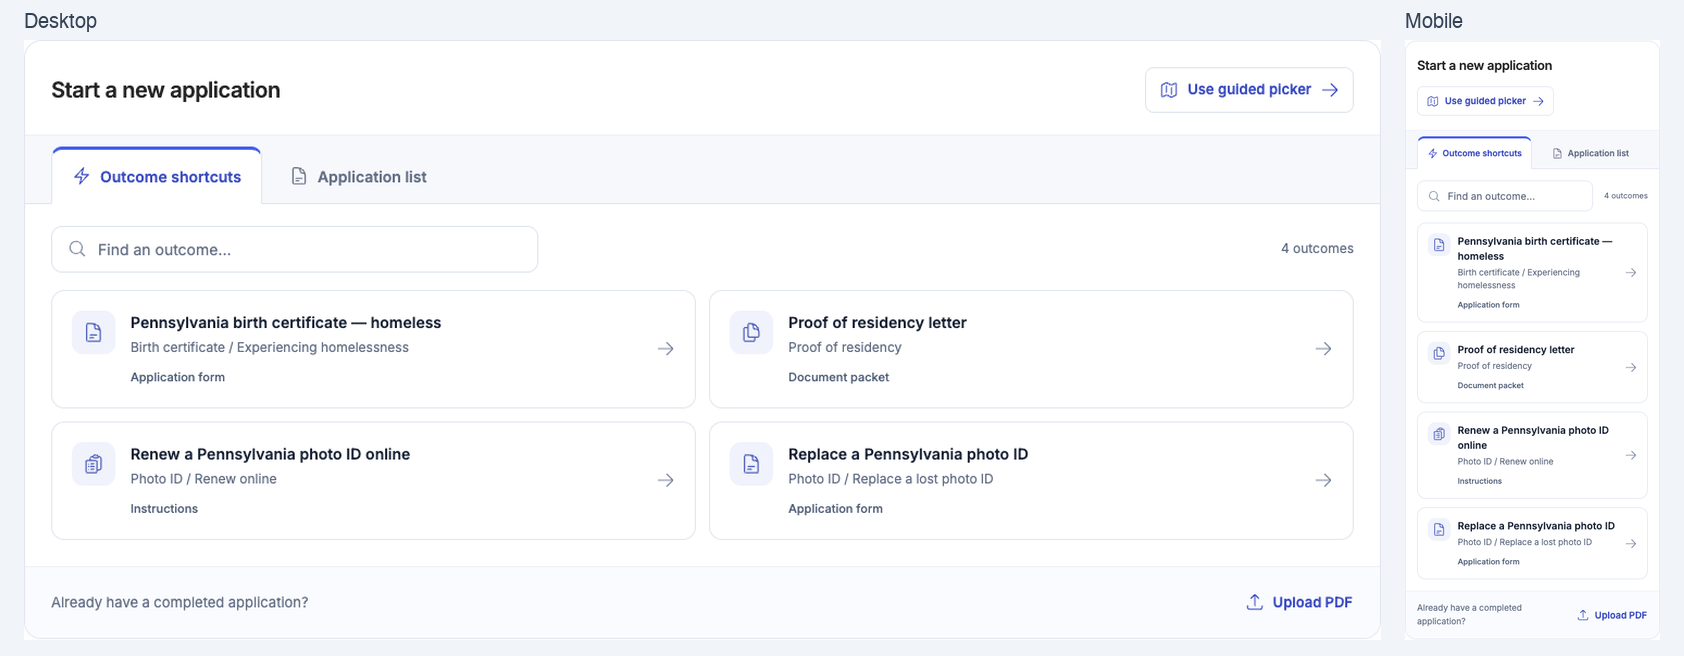
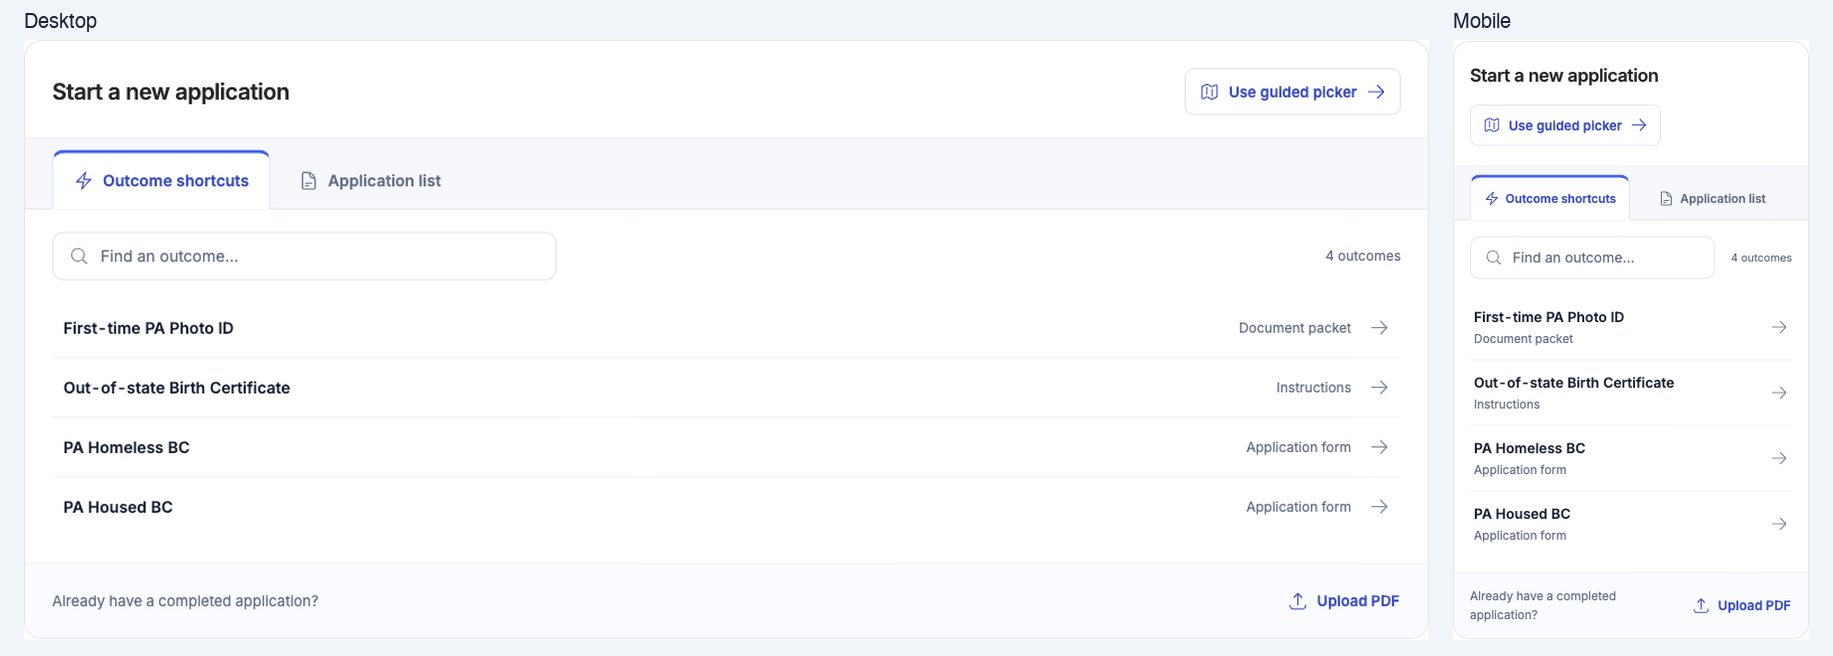
Show outcome service labels in a compact shortcut list

diff --git a/src/components/Applications/ApplicationStartTabs.tsx b/src/components/Applications/ApplicationStartTabs.tsx
@@ -5,8 +5,6 @@ import {
   ArrowRightIcon,
   ArrowUpTrayIcon,
   BoltIcon,
-  ClipboardDocumentListIcon,
-  DocumentDuplicateIcon,
   DocumentTextIcon,
   MagnifyingGlassIcon,
   MapIcon,
@@ -15,7 +13,7 @@ import React, { useEffect, useState } from 'react';
 import { Link } from 'react-router-dom';
 
 import { loadCaseSelector } from './applicationSelector/flowApi';
-import { getOutcomeShortcuts } from './applicationSelector/outcomeShortcuts';
+import { getOutcomeShortcutLabel, getOutcomeShortcuts } from './applicationSelector/outcomeShortcuts';
 import type { SelectorFlow } from './applicationSelector/types';
 
 interface Props {
@@ -27,10 +25,10 @@ interface Props {
 }
 
 const outcomePresentation = {
-  WEB_FORM: { label: 'Application form', Icon: DocumentTextIcon },
-  PDF_UPLOAD: { label: 'PDF application', Icon: ArrowUpTrayIcon },
-  INSTRUCTIONS_ONLY: { label: 'Instructions', Icon: ClipboardDocumentListIcon },
-  ATTACHMENTS_ONLY: { label: 'Document packet', Icon: DocumentDuplicateIcon },
+  WEB_FORM: 'Application form',
+  PDF_UPLOAD: 'PDF application',
+  INSTRUCTIONS_ONLY: 'Instructions',
+  ATTACHMENTS_ONLY: 'Document packet',
 };
 
 const OutcomeShortcuts = ({ clientUsername, clientName }: Pick<Props, 'clientUsername' | 'clientName'>) => {
@@ -63,7 +61,7 @@ const OutcomeShortcuts = ({ clientUsername, clientName }: Pick<Props, 'clientUse
   const shortcuts = getOutcomeShortcuts(flow);
   const search = query.trim().toLocaleLowerCase();
   const filtered = shortcuts.filter(({ outcome, labels }) => (
-    [outcome.displayName, outcome.title, ...labels].join(' ').toLocaleLowerCase().includes(search)
+    [getOutcomeShortcutLabel(outcome), outcome.displayName, outcome.title, ...labels].join(' ').toLocaleLowerCase().includes(search)
   ));
   return (
     <div>
@@ -89,42 +87,42 @@ const OutcomeShortcuts = ({ clientUsername, clientName }: Pick<Props, 'clientUse
           </span>
         </div>
       )}
-      <div className="application-start__outcomes">
-        {filtered.map(({ nodeId, outcome, labels }) => {
-          const { label, Icon } = outcomePresentation[outcome.fulfillmentMode];
-          const title = outcome.displayName || outcome.title;
+      <ul className="application-start__outcomes" aria-label="Outcome shortcuts">
+        {filtered.map(({ nodeId, outcome }) => {
+          const label = outcomePresentation[outcome.fulfillmentMode];
+          const title = getOutcomeShortcutLabel(outcome);
           const content = (
             <>
-              <span className="application-start__outcome-icon"><Icon aria-hidden="true" /></span>
               <span className="application-start__outcome-content">
                 <span className="application-start__outcome-title">{title}</span>
-                {labels.length > 0 && <span id={`outcome-route-${nodeId}`} className="application-start__route">{labels.join(' / ')}</span>}
                 <span className="application-start__kind">{label}</span>
               </span>
               <ArrowRightIcon className="application-start__arrow" aria-hidden="true" />
             </>
           );
-          return clientUsername ? (
-            <Link
-              key={nodeId}
-              className="application-start__outcome"
-              aria-label={title}
-              aria-describedby={labels.length ? `outcome-route-${nodeId}` : undefined}
-              to={{
-                pathname: '/applications/selector',
-                search: `?client=${encodeURIComponent(clientUsername)}`,
-                state: {
-                  clientUsername,
-                  clientName: clientName || '',
-                  outcomeShortcut: { nodeId, publishToken: flow.publishToken },
-                },
-              }}
-            >
-              {content}
-            </Link>
-          ) : <div key={nodeId} className="application-start__outcome application-start__outcome--disabled">{content}</div>;
+          return (
+            <li key={nodeId}>
+              {clientUsername ? (
+                <Link
+                  className="application-start__outcome"
+                  aria-label={title}
+                  to={{
+                    pathname: '/applications/selector',
+                    search: `?client=${encodeURIComponent(clientUsername)}`,
+                    state: {
+                      clientUsername,
+                      clientName: clientName || '',
+                      outcomeShortcut: { nodeId, publishToken: flow.publishToken },
+                    },
+                  }}
+                >
+                  {content}
+                </Link>
+              ) : <div className="application-start__outcome application-start__outcome--disabled">{content}</div>}
+            </li>
+          );
         })}
-      </div>
+      </ul>
       {filtered.length === 0 && (
         <p className="application-start__message" role="status">
           {shortcuts.length ? 'No outcomes match your search.' : 'No outcome shortcuts are available in the published picker.'}

diff --git a/src/components/Applications/ApplicationStartTabs.test.tsx b/src/components/Applications/ApplicationStartTabs.test.tsx
@@ -17,12 +17,18 @@ beforeEach(() => {
     selectorId: 'picker',
     publishToken: 'published',
     title: 'Picker',
-    rootNodeId: 'leaf',
-    nodes: [{ id: 'leaf', outcomeId: 'outcome', type: 'OUTCOME', transitions: [] }],
+    rootNodeId: 'root',
+    nodes: [
+      { id: 'root',
+        type: 'CHOICE',
+        transitions: [{ id: 'pa', key: 'pa', type: 'CHOICE', label: 'Birth Certificate / Pennsylvania', childNodeId: 'leaf' }] },
+      { id: 'leaf', outcomeId: 'outcome', type: 'OUTCOME', transitions: [] },
+    ],
     outcomes: [{ id: 'outcome',
       code: 'outcome',
-      displayName: 'Replace ID',
-      title: 'Replace ID',
+      displayName: 'New outcome',
+      shortLabel: 'PA Housed BC',
+      title: 'Birth certificate',
       status: 'ACTIVE',
       fulfillmentMode: 'WEB_FORM',
       components: [] }],
@@ -47,11 +53,13 @@ describe('application start tabs', () => {
     const history = setup('demo-client');
     expect(screen.getByRole('tab', { name: 'Outcome shortcuts' })).toHaveAttribute('aria-selected', 'true');
     expect(screen.queryByRole('link', { name: 'Legacy form' })).not.toBeInTheDocument();
-    await screen.findByRole('link', { name: 'Replace ID' });
+    await screen.findByRole('link', { name: 'PA Housed BC' });
+    expect(screen.queryByText('New outcome')).not.toBeInTheDocument();
+    expect(screen.queryByText('Birth Certificate / Pennsylvania')).not.toBeInTheDocument();
     fireEvent.change(screen.getByRole('searchbox', { name: 'Search outcomes' }), { target: { value: 'no match' } });
     expect(screen.getByText('No outcomes match your search.')).toBeInTheDocument();
-    fireEvent.change(screen.getByRole('searchbox', { name: 'Search outcomes' }), { target: { value: 'replace' } });
-    fireEvent.click(screen.getByRole('link', { name: 'Replace ID' }));
+    fireEvent.change(screen.getByRole('searchbox', { name: 'Search outcomes' }), { target: { value: 'housed' } });
+    fireEvent.click(screen.getByRole('link', { name: 'PA Housed BC' }));
     expect(history.location).toMatchObject({ pathname: '/applications/selector',
       search: '?client=demo-client',
       state: {
@@ -61,9 +69,9 @@ describe('application start tabs', () => {
 
   it('shows outcomes without offering clientless navigation', async () => {
     setup();
-    await screen.findByText('Replace ID');
+    await screen.findByText('PA Housed BC');
     expect(screen.getByText('Open a client’s applications to use an outcome shortcut.')).toBeInTheDocument();
-    expect(screen.queryByRole('link', { name: 'Replace ID' })).not.toBeInTheDocument();
+    expect(screen.queryByRole('link', { name: 'PA Housed BC' })).not.toBeInTheDocument();
   });
 
   it('can retry a failed load and return to the legacy list', async () => {
@@ -71,7 +79,7 @@ describe('application start tabs', () => {
     setup('demo-client');
     await screen.findByText('Picker unavailable');
     fireEvent.click(screen.getByRole('button', { name: 'Try again' }));
-    await screen.findByRole('link', { name: 'Replace ID' });
+    await screen.findByRole('link', { name: 'PA Housed BC' });
     await waitFor(() => expect(loadCaseSelector).toHaveBeenCalledTimes(2));
     fireEvent.click(screen.getByRole('tab', { name: 'Application list' }));
     expect(screen.getByRole('link', { name: 'Legacy form' })).toBeInTheDocument();

diff --git a/src/components/Applications/ApplicationStartTabs.scss b/src/components/Applications/ApplicationStartTabs.scss
@@ -129,49 +129,45 @@
 	}
 
 	&__count { color: #657086; font-size: 0.75rem; white-space: nowrap; }
-	/* stylelint-disable-next-line unit-whitelist */
-	&__outcomes { display: grid; grid-template-columns: repeat(2, minmax(0, 1fr)); gap: 0.75rem; }
+
+	&__outcomes {
+		margin: 0;
+		padding: 0;
+		list-style: none;
+
+		li + li { border-top: 0.0625rem solid #edf0f5; }
+	}
 
 	&__outcome {
 		display: flex;
-		align-items: flex-start;
-		gap: 0.875rem;
-		padding: 1.125rem;
-		border: 0.0625rem solid #e2e6ef;
-		border-radius: 0.75rem;
-		background: #fff;
+		align-items: center;
+		gap: 1rem;
+		min-height: 3.25rem;
+		padding: 0.75rem 0.625rem;
+		border-radius: 0.375rem;
 		color: #182235;
 		text-decoration: none;
-		transition: border-color 0.15s, background-color 0.15s;
+		transition: background-color 0.15s;
 
-		&:hover { border-color: #aab6f5; background: #fafaff; color: #182235; text-decoration: none; }
+		&:hover { background: #f5f6fc; color: #182235; text-decoration: none; }
 
-		&--disabled { background: #f8f9fc; }
+		&--disabled { color: #657086; }
 	}
 
-	&__outcome-icon {
+	&__outcome-content {
 		display: flex;
 		align-items: center;
-		justify-content: center;
-		flex-shrink: 0;
-		width: 2.5rem;
-		height: 2.5rem;
-		border-radius: 0.625rem;
-		background: #f0f2fc;
-		color: #5263ba;
-
-		svg { width: 1.25rem; height: 1.25rem; }
+		justify-content: space-between;
+		flex: 1;
+		gap: 1rem;
+		min-width: 0;
 	}
 
-	&__outcome-content { flex: 1; min-width: 0; }
+	&__outcome-title { font-size: 0.875rem; font-weight: 600; line-height: 1.5; overflow-wrap: anywhere; }
 
-	&__outcome-title { display: block; font-size: 0.875rem; font-weight: 600; line-height: 1.5; }
+	&__kind { flex-shrink: 0; color: #657086; font-size: 0.75rem; line-height: 1.5; }
 
-	&__route { display: block; margin-top: 0.25rem; color: #657086; font-size: 0.75rem; line-height: 1.5; }
-
-	&__kind { display: inline-block; margin-top: 0.625rem; color: #526079; font-size: 0.6875rem; font-weight: 500; }
-
-	&__arrow { align-self: center; color: #7e89a0; }
+	&__arrow { color: #7e89a0; }
 
 	&__footer {
 		display: flex;
@@ -215,12 +211,10 @@
 		&__tab svg { width: 1rem; height: 1rem; }
 
 		&__panels { padding: 1rem; }
-		/* stylelint-disable-next-line unit-whitelist */
-		&__outcomes { grid-template-columns: minmax(0, 1fr); }
 
-		&__outcome { padding: 0.875rem; gap: 0.625rem; }
+		&__outcome { padding: 0.75rem 0.25rem; gap: 0.625rem; }
 
-		&__outcome-icon { width: 2rem; height: 2rem; }
+		&__outcome-content { align-items: flex-start; flex-direction: column; gap: 0.125rem; }
 
 		&__footer { padding: 0.875rem 1rem; }
 

diff --git a/src/components/Applications/applicationSelector/outcomeShortcuts.test.ts b/src/components/Applications/applicationSelector/outcomeShortcuts.test.ts
@@ -1,6 +1,6 @@
 import { describe, expect, it } from 'vitest';
 
-import { advanceShortcut, getOutcomeShortcuts } from './outcomeShortcuts';
+import { advanceShortcut, getOutcomeShortcutLabel, getOutcomeShortcuts } from './outcomeShortcuts';
 import type { SelectorFlow, SelectorNode, SelectorOutcomeSummary } from './types';
 
 const outcome = (id: string, status: 'ACTIVE' | 'DEPRECATED' = 'ACTIVE'): SelectorOutcomeSummary => ({
@@ -28,6 +28,25 @@ const flow: SelectorFlow = {
 };
 
 describe('published outcome shortcuts', () => {
+  it('uses service labels with fallbacks for older published outcomes', () => {
+    expect(getOutcomeShortcutLabel({ ...outcome('New outcome'), shortLabel: 'PA Housed BC' })).toBe('PA Housed BC');
+    expect(getOutcomeShortcutLabel(outcome('Existing name'))).toBe('Existing name');
+    expect(getOutcomeShortcutLabel({ ...outcome('Existing name'), shortLabel: ' ' })).toBe('Existing name');
+    expect(getOutcomeShortcutLabel({ ...outcome('Service title'), displayName: '' })).toBe('Service title');
+  });
+
+  it('sorts shortcuts by the service label shown on each card', () => {
+    const sorted = getOutcomeShortcuts({
+      ...flow,
+      nodes: [choice('root', ['a', 'b']), leaf('a'), leaf('b')],
+      outcomes: [
+        { ...outcome('a'), shortLabel: 'PA Housed BC' },
+        { ...outcome('b'), shortLabel: 'PA Homeless BC' },
+      ],
+    });
+    expect(sorted.map((item) => item.nodeId)).toEqual(['b', 'a']);
+  });
+
   it('only includes reachable active outcomes and preserves distinct routes to a shared outcome', () => {
     const shortcuts = getOutcomeShortcuts(flow);
     expect(shortcuts.map((item) => item.nodeId).sort()).toEqual(['direct', 'other']);

diff --git a/src/components/Applications/applicationSelector/ApplicationSelectorFlow.tsx b/src/components/Applications/applicationSelector/ApplicationSelectorFlow.tsx
@@ -28,7 +28,7 @@ import {
   savePennDotNumber,
   uploadServicePdf,
 } from './flowApi';
-import { type OutcomeShortcut, advanceShortcut, getOutcomeShortcuts } from './outcomeShortcuts';
+import { type OutcomeShortcut, advanceShortcut, getOutcomeShortcutLabel, getOutcomeShortcuts } from './outcomeShortcuts';
 import type {
   FulfillmentMode,
   OutcomeShortcutTarget,
@@ -822,7 +822,7 @@ const ApplicationSelectorFlow = ({
       {shortcut && !manualMode && (
         <div className="tw-mb-5 tw-rounded-lg tw-border tw-border-blue-200 tw-bg-blue-50 tw-p-4">
           <p className="tw-mb-1 tw-text-sm tw-font-semibold tw-text-blue-950">
-            Outcome shortcut: {shortcut.outcome.displayName || shortcut.outcome.title}
+            Outcome shortcut: {getOutcomeShortcutLabel(shortcut.outcome)}
           </p>
           {shortcut.labels.length > 0 && <p className="tw-mb-1 tw-text-sm tw-text-blue-900">{shortcut.labels.join(' → ')}</p>}
           <p className="tw-mb-0 tw-text-sm tw-text-blue-900">Review the next steps for this outcome. To choose a different route, start over.</p>

diff --git a/src/components/Applications/applicationSelector/outcomeShortcuts.ts b/src/components/Applications/applicationSelector/outcomeShortcuts.ts
@@ -7,6 +7,10 @@ export interface OutcomeShortcut {
   labels: string[];
 }
 
+export const getOutcomeShortcutLabel = (outcome: SelectorOutcomeSummary): string => (
+  outcome.shortLabel?.trim() || outcome.displayName || outcome.title
+);
+
 // Keep each route when several leaves share an outcome: their responses and
 // instructions may depend on different questions along the way.
 export const getOutcomeShortcuts = (flow: SelectorFlow): OutcomeShortcut[] => {
@@ -29,7 +33,7 @@ export const getOutcomeShortcuts = (flow: SelectorFlow): OutcomeShortcut[] => {
   };
   visit(flow.rootNodeId, [], []);
   return shortcuts.sort((a, b) => (
-    a.outcome.displayName.localeCompare(b.outcome.displayName)
+    getOutcomeShortcutLabel(a.outcome).localeCompare(getOutcomeShortcutLabel(b.outcome))
     || a.labels.join(' / ').localeCompare(b.labels.join(' / '))
   ));
 };

diff --git a/src/components/Applications/applicationSelector/types.ts b/src/components/Applications/applicationSelector/types.ts
@@ -36,6 +36,7 @@ export interface SelectorOutcomeSummary {
   id: string;
   code: string;
   displayName: string;
+  shortLabel?: string | null;
   title: string;
   status: 'ACTIVE' | 'DEPRECATED';
   fulfillmentMode: FulfillmentMode;
